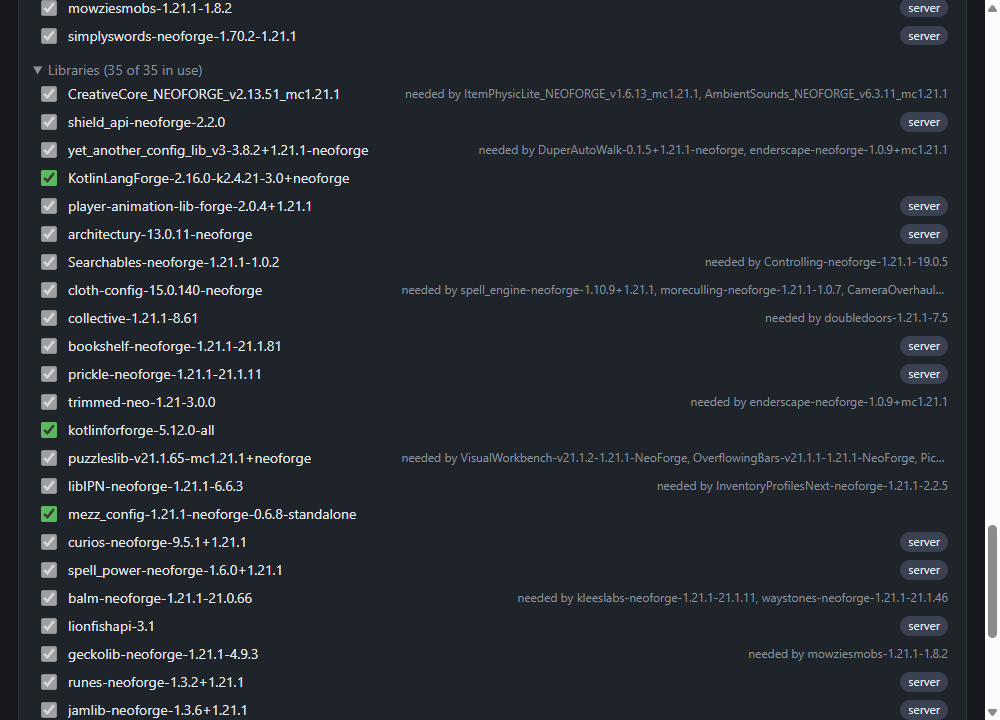
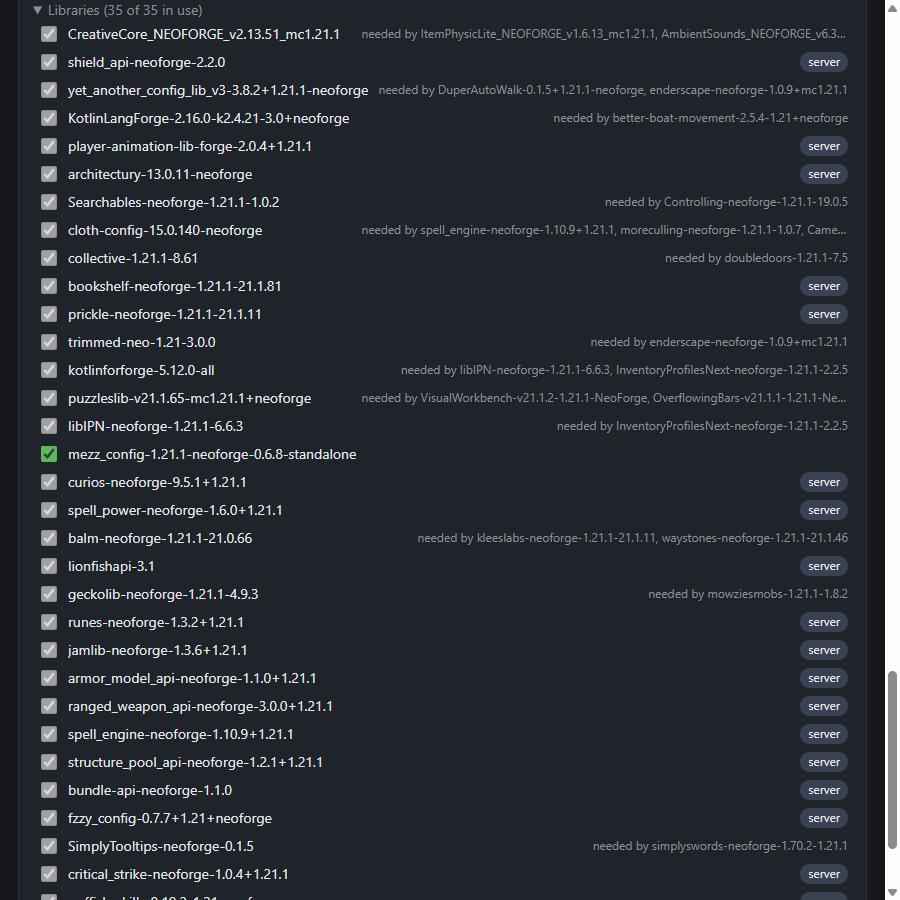
release 0.2.1
- correct the readme on server mods, own 4x/5x jars, backups, saved choices and python version

- retake the overview and libraries screenshots

- bump the version to 0.2.1

Changed region(s): [[0.0311, 0.0, 1.0, 1.0]]

diff --git a/src/minecraft_setup/__init__.py b/src/minecraft_setup/__init__.py
@@ -1,1 +1,1 @@
-__version__ = "0.2.0"
+__version__ = "0.2.1"

diff --git a/README.md b/README.md
@@ -20,20 +20,24 @@ touch your game.
 
 ## What it does
 
-| | |
-|---|---|
-| **Finds your game** | Detects `.minecraft` and the TLauncher versions in it, and matches each pack to the right one. Tells you what to install when a version is missing. |
-| **Your mods, your choice** | Server mods are locked on - everyone needs them to join. Client mods (shaders, HUD, sounds...) are checkboxes. |
-| **Libraries sort themselves out** | A library stays on while anything ticked needs it, and goes away with the last mod that used it. |
-| **Updates on start** | New, updated and removed mods are listed before anything happens. Replaced files go to `backup\`. |
-| **Leaves your stuff alone** | Configs, `options.txt` and shader settings are written only when missing. Mods you added yourself are never touched. |
-| **Safe while playing** | Refuses to change a pack whose game is running. |
-| **Profiles for 26.3** | Vanilla / Full switch with the world guard: worlds of the other profile are hidden so they never load with the wrong mods. |
-| **Updates itself** | New app versions come from GitHub Releases, verified by sha256. |
+- **Finds your game.** Detects `.minecraft` and the TLauncher versions in it, and matches each pack to the right one.
+  Tells you what to install when a version is missing.
+- **Your mods, your choice.** Server mods have no checkbox - everyone needs them to join. Client mods (shaders, HUD,
+  sounds...) are checkboxes; your picks are saved when you press **Apply**.
+- **Libraries sort themselves out.** A library stays on while anything ticked needs it, and goes away with the last
+  mod that used it - Kotlin language mods included.
+- **Updates on start.** New, updated and removed mods are listed before anything happens. Replaced and removed files
+  go to `backup\update-<date>_<time>`.
+- **Leaves your stuff alone.** Configs, `options.txt` and shader settings are written only when missing. Mods you
+  added yourself are left alone (one exception on 26.3, see the FAQ).
+- **Safe while playing.** Refuses to change a pack whose game is running.
+- **Profiles for 26.3.** Vanilla / Full switch with the world guard: worlds of the other profile are hidden so they
+  never load with the wrong mods. A world left hidden in the current profile comes back with the profile button.
+- **Updates itself.** New app versions come from GitHub Releases, verified by sha256.
 
 <p align="center">
   <img src="docs/images/mods.png" alt="Mod list with checkboxes grouped by kind" width="49%">
-  <img src="docs/images/libraries.png" alt="Libraries with what needs them, server mods locked" width="49%">
+  <img src="docs/images/libraries.png" alt="Libraries with the mods that need them, server mods marked" width="49%">
 </p>
 
 ## Get started (friends)
@@ -51,12 +55,15 @@ The exe never has to be sent around again.
 **Will it reset my settings?** No. Config files are only written where they do not exist yet, so your keybinds,
 video settings and shader options stay.
 
-**I added a mod myself.** It is listed under "Your own mods" and left alone.
+**I added a mod myself.** It is listed under "Your own mods" and left alone. On 26.3 do not name it `4x ...` or
+`5x ...`: those prefixes belong to the Full profile, and the profile switch turns such jars on and off with it.
 
-**Something went wrong mid-update.** Every replaced or removed file is in `backup\update-<date>` inside the game folder.
+**Something went wrong mid-update.** Every replaced or removed file is in `backup\update-<date>_<time>` inside the game
+folder. Mods that were only turned on or off are renamed to and from `.disabled`, not copied.
 
-**Where does it keep its data?** Your choices live in `minecraft-setup.json` in the game folder, a copy of the pack
-list in `%LOCALAPPDATA%\minecraft-setup` (so it also opens offline).
+**Where does it keep its data?** Your choices go to `minecraft-setup.json` in the game folder when you press
+**Apply** (ticking alone keeps them only until the app closes), a copy of the pack list to
+`%LOCALAPPDATA%\minecraft-setup` (so it also opens offline).
 
 ## For the owner
 
@@ -80,4 +87,4 @@ uv run minecraft-setup --help      # the same engine from the command line
 uv run pyinstaller minecraft-setup.spec
 ```
 
-Python 3.14, pywebview for the window, plain HTML/CSS/JS for the screen, PyInstaller for the one-file exe.
+Python 3.13+ (3.14 pinned for development and the exe), pywebview for the window, plain HTML/CSS/JS for the screen, PyInstaller for the one-file exe.
